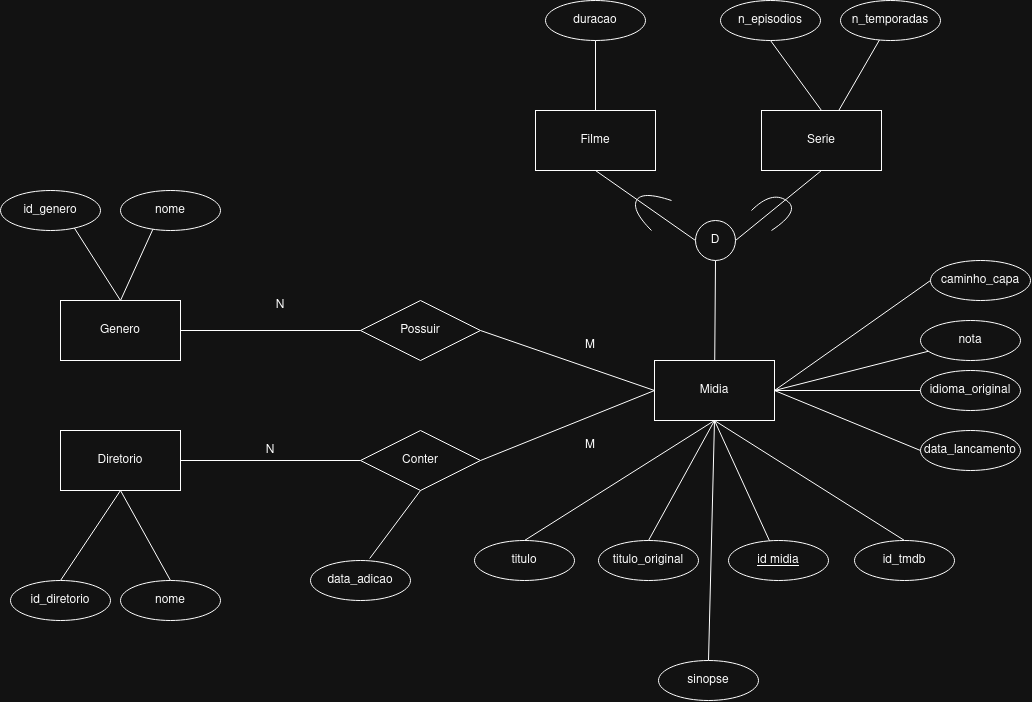
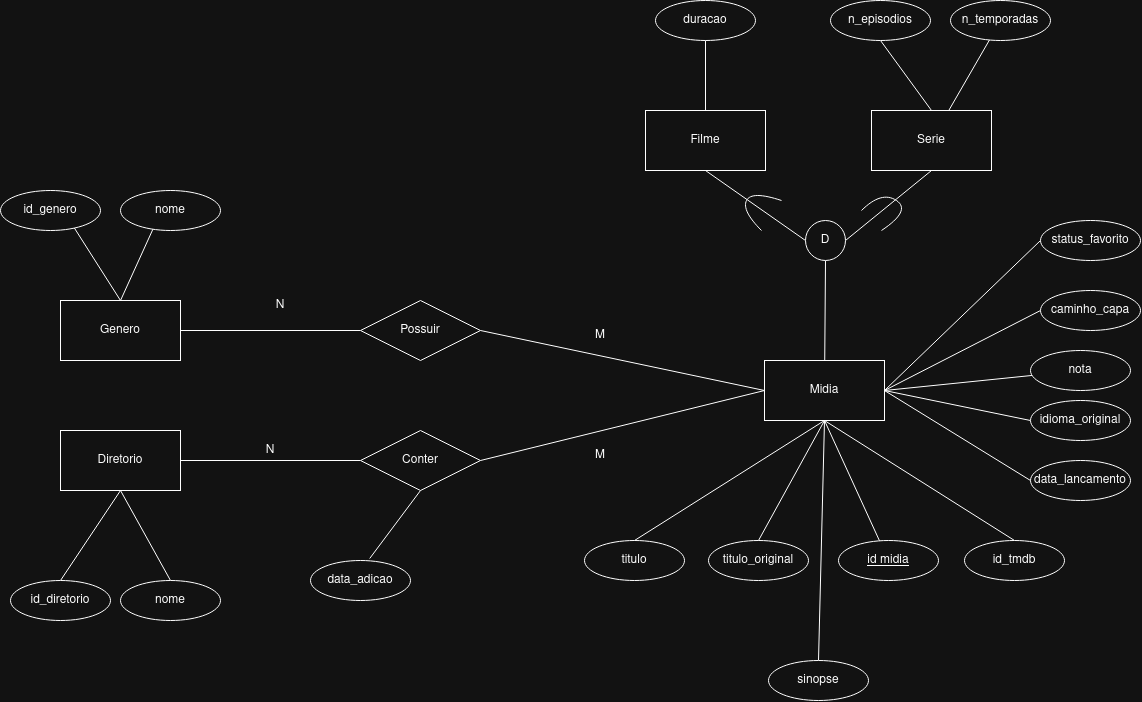
Atualização do DER e do Modelo Relacional
Ainda falta atualizar o script, farei isso depois.

diff --git a/docs/diagramas/Modelo Relacional.md b/docs/diagramas/Modelo Relacional.md
@@ -1,4 +1,4 @@
-Midia {id_midia, id_tmdb, caminho_capa, titulo, titulo_original, sinopse, nota, idioma_original, data_lancamento, tipo}
+Midia {id_midia, id_tmdb, caminho_capa, titulo, titulo_original, sinopse, nota, idioma_original, data_lancamento, status_midia, tipo}
     id_midia - chave primária 
     tipo - 1: Filme, 2: Série
 
